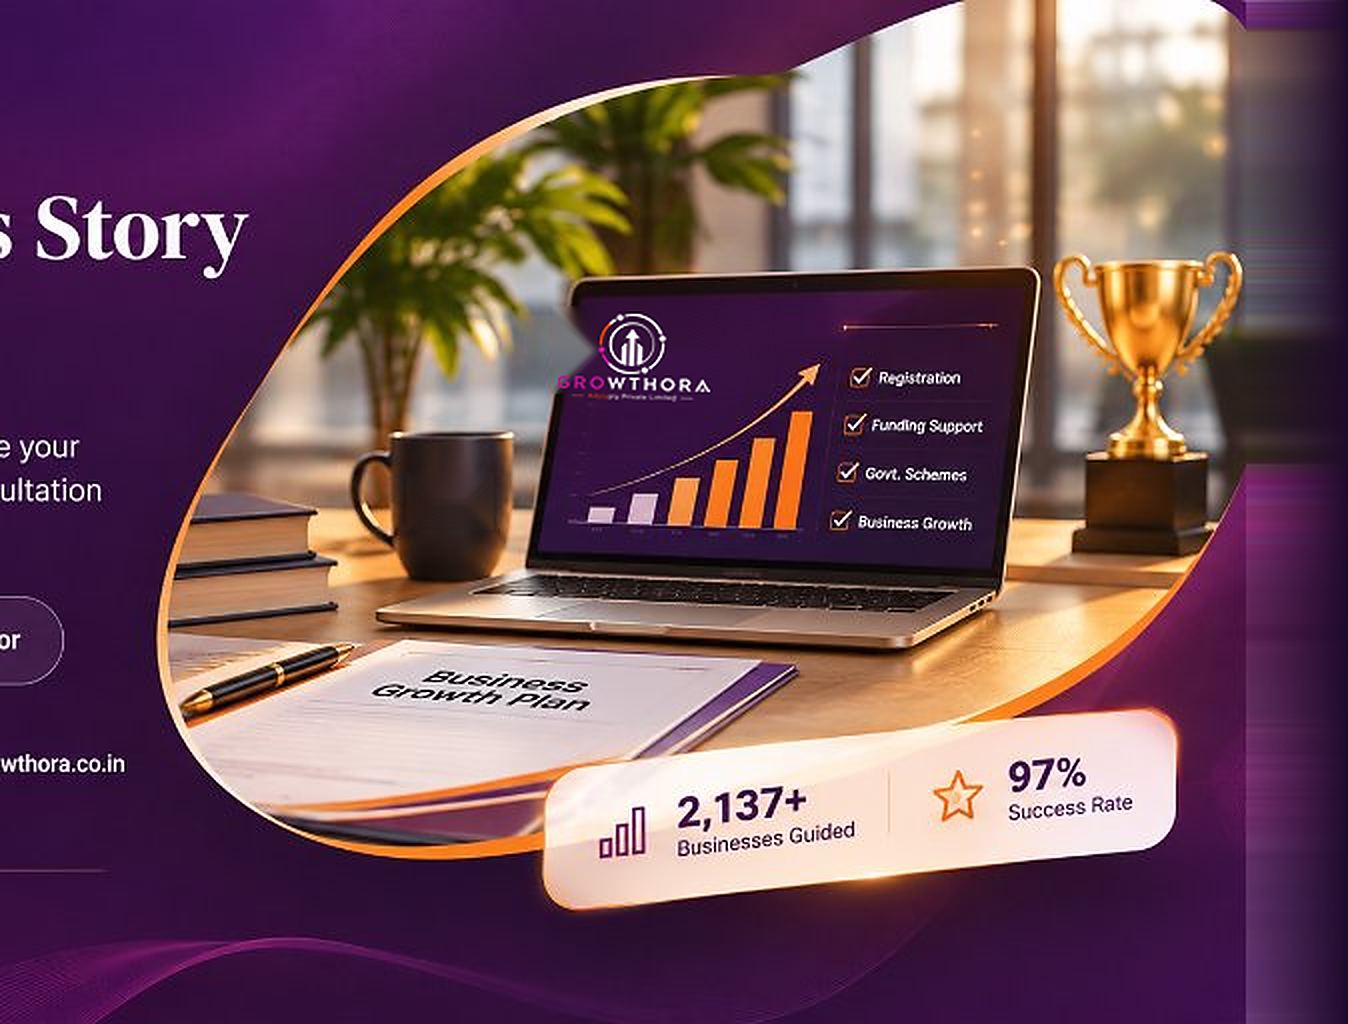
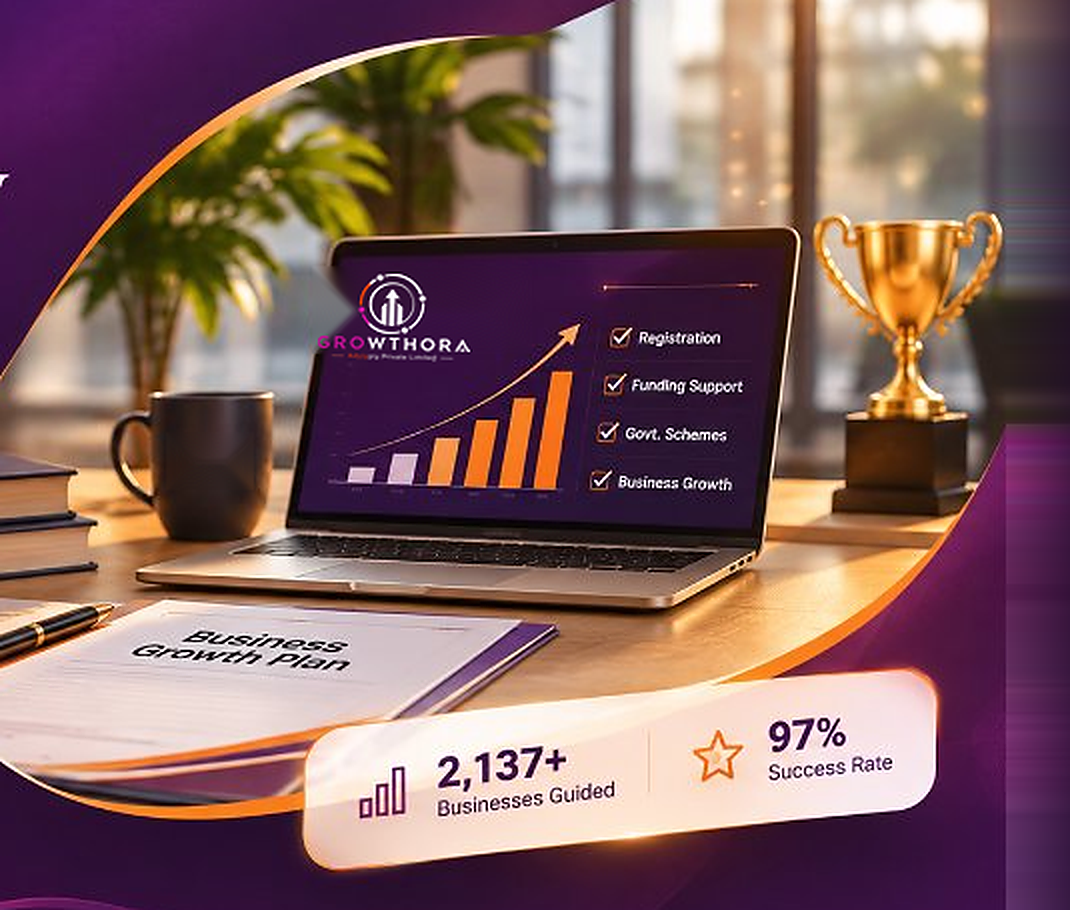
fix(success-stories): clean CTA section 55/45 split, remove duplicated text from image, and apply object-fit cover

diff --git a/src/styles/successStories.css b/src/styles/successStories.css
@@ -3752,9 +3752,9 @@
 
 @media (min-width: 1024px) {
   .ss-cta-grid {
-    grid-template-columns: 46% 54%;
+    grid-template-columns: 55% 45%;
     gap: 0;
-    align-items: center;
+    align-items: stretch;
   }
 }
 
@@ -3964,10 +3964,12 @@
 .ss-cta-visual-col {
   position: relative;
   width: 100%;
+  height: 100%;
+  min-height: 380px;
   display: flex;
   align-items: center;
-  justify-content: flex-end;
-  padding: 12px 24px 12px 0;
+  justify-content: center;
+  padding: 0;
   overflow: hidden;
   min-width: 0;
 }
@@ -3975,38 +3977,50 @@
 .ss-cta-visual-frame {
   position: relative;
   width: 100%;
+  height: 100%;
+  min-height: 380px;
   display: flex;
   align-items: center;
-  justify-content: flex-end;
+  justify-content: center;
+  overflow: hidden;
 }
 
 .ss-cta-desk-img {
   width: 100%;
-  max-width: 620px;
-  height: auto;
-  max-height: 440px;
-  object-fit: contain;
-  object-position: right center;
+  height: 100%;
+  min-height: 380px;
+  object-fit: cover;
+  object-position: center;
   display: block;
-  mask-image: linear-gradient(to right, transparent 0%, black 8%, black 100%);
-  -webkit-mask-image: linear-gradient(to right, transparent 0%, black 8%, black 100%);
 }
 
 @media (max-width: 1023px) {
   .ss-cta-grid {
     grid-template-columns: 1fr;
-    gap: 20px;
+    gap: 0;
   }
 
   .ss-cta-visual-col {
     padding: 0 20px 24px;
+    height: auto;
+    min-height: auto;
     justify-content: center;
   }
 
+  .ss-cta-visual-frame {
+    border-radius: 20px;
+    height: 320px;
+    max-width: 580px;
+    min-height: auto;
+    margin: 0 auto;
+  }
+
   .ss-cta-desk-img {
-    max-height: 320px;
-    mask-image: linear-gradient(to bottom, transparent 0%, black 8%, black 100%);
-    -webkit-mask-image: linear-gradient(to bottom, transparent 0%, black 8%, black 100%);
+    height: 100%;
+    min-height: auto;
+    max-height: none;
+    object-fit: cover;
+    object-position: center;
   }
 }
 
@@ -4061,10 +4075,23 @@
 
   .ss-cta-visual-col {
     padding: 0 16px 20px;
+    height: auto;
+    min-height: auto;
+  }
+
+  .ss-cta-visual-frame {
+    border-radius: 16px;
+    height: 240px;
+    min-height: auto;
+    width: 100%;
   }
 
   .ss-cta-desk-img {
-    max-height: 240px;
+    height: 100%;
+    min-height: auto;
+    max-height: none;
+    object-fit: cover;
+    object-position: center;
   }
 }
 
